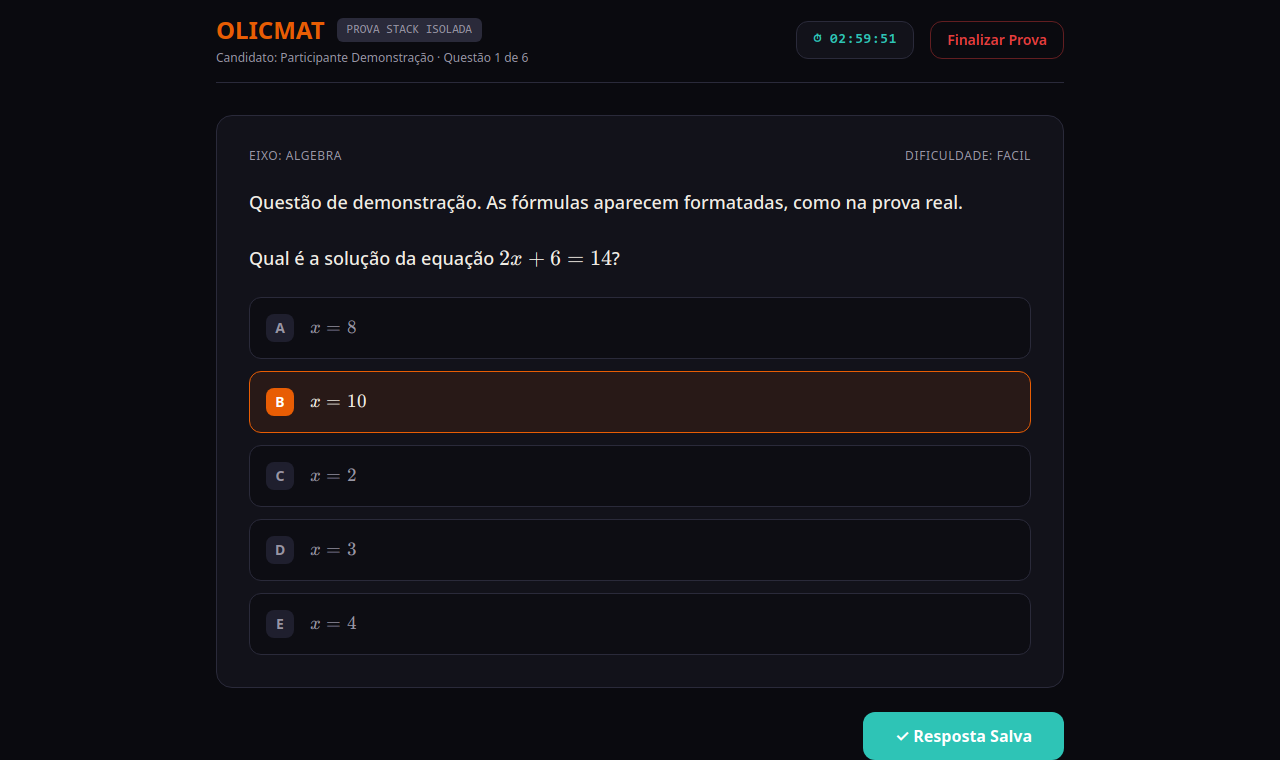
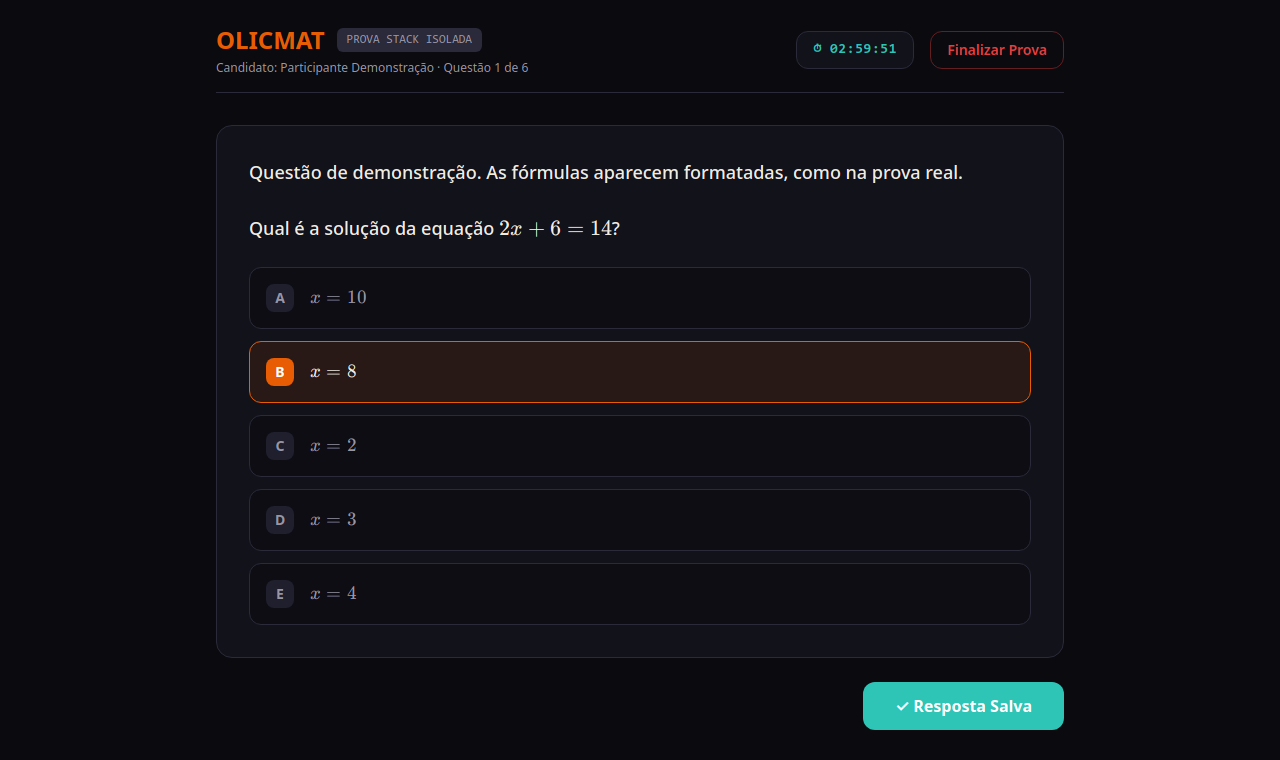
feat(prova): prova sem gabarito até a correção oficial
- Questão pode ser cadastrada sem gabarito, eixo e dificuldade
- Sem gabarito oficial, a finalização grava as respostas e deixa a nota vazia
- Eixo e dificuldade saem da tela e da resposta da API ao participante
- Fórmulas largas encolhem até caber na tela do celular
- Tutorial refeito sem eixo e dificuldade

diff --git a/apps/admin/web/src/components/prova/ProvaEditor.tsx b/apps/admin/web/src/components/prova/ProvaEditor.tsx
@@ -23,9 +23,9 @@ interface QuestaoNested {
   alternativaC: string;
   alternativaD: string;
   alternativaE: string;
-  correta: string;
-  eixo: string;
-  dificuldade: string;
+  correta: string | null;
+  eixo: string | null;
+  dificuldade: string | null;
 }
 
 interface ProvaQuestaoItem {
@@ -212,9 +212,9 @@ export function ProvaEditor({
       alternativaC: pq.questao.alternativaC,
       alternativaD: pq.questao.alternativaD,
       alternativaE: pq.questao.alternativaE,
-      correta: pq.questao.correta,
-      eixo: pq.questao.eixo,
-      dificuldade: pq.questao.dificuldade,
+      correta: pq.questao.correta ?? "",
+      eixo: pq.questao.eixo ?? "",
+      dificuldade: pq.questao.dificuldade ?? "",
     });
     setErroQuestao("");
     setModalQuestao(true);
@@ -230,7 +230,9 @@ export function ProvaEditor({
     setSalvandoQuestao(true);
     try {
       if (editandoQuestaoId) {
-        await api.patch(`/admin/questoes/${editandoQuestaoId}`, formQuestao);
+        // Campo vazio fica como está: editar o texto não pode inventar um gabarito.
+        const preenchidos = Object.fromEntries(Object.entries(formQuestao).filter(([, v]) => v !== ""));
+        await api.patch(`/admin/questoes/${editandoQuestaoId}`, preenchidos);
       } else {
         await api.post(`/admin/provas/${id}/questoes`, formQuestao);
       }
@@ -450,7 +452,7 @@ export function ProvaEditor({
                         <MathText text={pq.questao.enunciado} />
                       </span>
                       <span className="text-xs text-[#9895a4]">
-                        {pq.questao.eixo} · {pq.questao.dificuldade} · Gabarito: {pq.questao.correta}
+                        {pq.questao.eixo ?? "Sem eixo"} · {pq.questao.dificuldade ?? "Sem dificuldade"} · Gabarito: {pq.questao.correta ?? "pendente"}
                       </span>
                     </div>
                   </div>
@@ -520,6 +522,7 @@ export function ProvaEditor({
                 onChange={(e) => setFormQuestao({ ...formQuestao, correta: e.target.value })}
                 className="mt-1.5 w-full h-10 px-3 rounded-lg bg-[#0a0a0f] border border-[#2a2a3a] text-[#f0ece4] text-sm cursor-pointer"
               >
+                {formQuestao.correta === "" && <option value="">Pendente</option>}
                 {CORRETAS.map((c) => (
                   <option key={c} value={c}>{c}</option>
                 ))}
@@ -532,6 +535,7 @@ export function ProvaEditor({
                 onChange={(e) => setFormQuestao({ ...formQuestao, eixo: e.target.value })}
                 className="mt-1.5 w-full h-10 px-3 rounded-lg bg-[#0a0a0f] border border-[#2a2a3a] text-[#f0ece4] text-sm cursor-pointer"
               >
+                {formQuestao.eixo === "" && <option value="">Sem eixo</option>}
                 {EIXOS.map((e) => (
                   <option key={e} value={e}>{e}</option>
                 ))}
@@ -544,6 +548,7 @@ export function ProvaEditor({
                 onChange={(e) => setFormQuestao({ ...formQuestao, dificuldade: e.target.value })}
                 className="mt-1.5 w-full h-10 px-3 rounded-lg bg-[#0a0a0f] border border-[#2a2a3a] text-[#f0ece4] text-sm cursor-pointer"
               >
+                {formQuestao.dificuldade === "" && <option value="">Sem dificuldade</option>}
                 {DIFICULDADES.map((d) => (
                   <option key={d} value={d}>{d}</option>
                 ))}

diff --git a/apps/exam/api/src/prova/prova.service.spec.ts b/apps/exam/api/src/prova/prova.service.spec.ts
@@ -33,7 +33,7 @@ describe("ProvaService (exam-api)", () => {
     const q = (id: string) => ({
       questao: {
         id, enunciado: id, alternativaA: "a", alternativaB: "b", alternativaC: "c",
-        alternativaD: "d", alternativaE: "e", eixo: "ALGEBRA", dificuldade: "MEDIO",
+        alternativaD: "d", alternativaE: "e",
       },
     });
     const mock = {
@@ -63,12 +63,27 @@ describe("ProvaService (exam-api)", () => {
   beforeEach(() => {
     prisma = {
       inscricao: { findFirst: jest.fn(), findUnique: jest.fn(), update: jest.fn() },
-      questao: { findUnique: jest.fn() },
+      questao: { findUnique: jest.fn(), count: jest.fn(async () => 0) },
       prova: { findFirst: jest.fn() },
       provaQuestao: { findMany: jest.fn(), count: jest.fn() },
       resposta: { findMany: jest.fn(), groupBy: jest.fn(), upsert: jest.fn() },
     };
     service = new ProvaService(prisma as any);
+  });
+
+  it("sem gabarito oficial, finaliza sem nota em vez de dar zero", async () => {
+    prisma.inscricao.findFirst.mockResolvedValue({ id: "i1", edicaoId: "ed1", fase1Fim: null });
+    prisma.prova.findFirst.mockResolvedValue({ id: "p1" });
+    prisma.resposta.groupBy.mockResolvedValue([]);
+    prisma.provaQuestao.count.mockResolvedValue(20);
+    prisma.questao.count.mockResolvedValue(20);
+    prisma.inscricao.update.mockResolvedValue({ id: "i1" });
+
+    await service.finalizarProva("u1");
+
+    const { data } = prisma.inscricao.update.mock.calls[0][0];
+    expect(data.fase1Nota).toBeNull();
+    expect(data.fase1Fim).toEqual(expect.any(Date));
   });
 
   describe("estadoProva", () => {

diff --git a/apps/exam/api/src/prova/prova.service.ts b/apps/exam/api/src/prova/prova.service.ts
@@ -179,8 +179,6 @@ export class ProvaService {
             alternativaC: true,
             alternativaD: true,
             alternativaE: true,
-            eixo: true,
-            dificuldade: true,
           },
         },
       },
@@ -226,8 +224,6 @@ export class ProvaService {
           alternativaC: c,
           alternativaD: d,
           alternativaE: e,
-          eixo: q.eixo,
-          dificuldade: q.dificuldade,
           respondida: respostasMap.get(q.id) || null,
         };
       }),
@@ -354,12 +350,20 @@ export class ProvaService {
       });
     }
 
+    // Sem o gabarito oficial não há nota: ela fica vazia até a correção, e não
+    // zero. As respostas guardadas bastam para corrigir depois.
+    const semGabarito = prova
+      ? await this.prisma.questao.count({
+          where: { correta: null, provas: { some: { provaId: prova.id } } },
+        })
+      : 0;
+
     const nota = totalQuestoes > 0 ? (corretas / totalQuestoes) * 100 : 0;
 
     const atualizada = await this.prisma.inscricao.update({
       where: { id: inscricao.id },
       data: {
-        fase1Nota: Math.round(nota * 100) / 100,
+        fase1Nota: semGabarito > 0 ? null : Math.round(nota * 100) / 100,
         fase1Fim: new Date(),
         fase1FimMotivo: motivo,
       },

diff --git a/apps/admin/api/src/admin/monitoramento/monitoramento.service.ts b/apps/admin/api/src/admin/monitoramento/monitoramento.service.ts
@@ -449,7 +449,7 @@ export class MonitoramentoService {
       throw new NotFoundException("Prova não encontrada");
     }
 
-    const [abertas, totalQuestoes, corretas] = await Promise.all([
+    const [abertas, totalQuestoes, corretas, semGabarito] = await Promise.all([
       this.prisma.inscricao.findMany({
         where: {
           edicaoId: prova.edicaoId,
@@ -464,6 +464,9 @@ export class MonitoramentoService {
         by: ["inscricaoId"],
         where: { provaId, correta: true },
         _count: { _all: true },
+      }),
+      this.prisma.questao.count({
+        where: { correta: null, provas: { some: { provaId } } },
       }),
     ]);
 
@@ -485,7 +488,8 @@ export class MonitoramentoService {
       await this.prisma.inscricao.updateMany({
         where: { id: insc.id, fase1Fim: null },
         data: {
-          fase1Nota: Math.round(nota * 100) / 100,
+          // Sem o gabarito oficial, a nota fica vazia até a correção.
+          fase1Nota: semGabarito > 0 ? null : Math.round(nota * 100) / 100,
           fase1Fim: agora,
           fase1FimMotivo: "ENCERRAMENTO_ADMIN",
         },

diff --git a/apps/admin/web/src/components/ui/math-text.tsx b/apps/admin/web/src/components/ui/math-text.tsx
@@ -12,7 +12,7 @@ interface MathTextProps {
 /**
  * Encolhe a fórmula para caber na tela. A rolagem lateral sozinha esconde parte
  * dela no celular: uma coluna inteira de tabela sumia sem nenhum sinal.
- * Abaixo do mínimo legível, a rolagem continua como último recurso.
+ * Abaixo do mínimo legível (50%), a rolagem continua como último recurso.
  */
 function FormulaLarga({ html }: { html: string }) {
   const ref = useRef<HTMLSpanElement>(null);
@@ -22,8 +22,10 @@ function FormulaLarga({ html }: { html: string }) {
     if (!el) return;
     const ajustar = () => {
       el.style.fontSize = "";
-      if (el.scrollWidth > el.clientWidth) {
-        const escala = Math.max(0.55, (el.clientWidth / el.scrollWidth) * 0.98);
+      let escala = 1;
+      // Repete porque a largura não cai na mesma proporção: sobravam alguns pixels.
+      for (let i = 0; i < 6 && escala > 0.5 && el.scrollWidth > el.clientWidth; i++) {
+        escala = Math.max(0.5, escala * (el.clientWidth / el.scrollWidth) * 0.98);
         el.style.fontSize = `${escala * 100}%`;
       }
     };

diff --git a/apps/exam/web/src/components/ui/math-text.tsx b/apps/exam/web/src/components/ui/math-text.tsx
@@ -12,7 +12,7 @@ interface MathTextProps {
 /**
  * Encolhe a fórmula para caber na tela. A rolagem lateral sozinha esconde parte
  * dela no celular: uma coluna inteira de tabela sumia sem nenhum sinal.
- * Abaixo do mínimo legível, a rolagem continua como último recurso.
+ * Abaixo do mínimo legível (50%), a rolagem continua como último recurso.
  */
 function FormulaLarga({ html }: { html: string }) {
   const ref = useRef<HTMLSpanElement>(null);
@@ -22,8 +22,10 @@ function FormulaLarga({ html }: { html: string }) {
     if (!el) return;
     const ajustar = () => {
       el.style.fontSize = "";
-      if (el.scrollWidth > el.clientWidth) {
-        const escala = Math.max(0.55, (el.clientWidth / el.scrollWidth) * 0.98);
+      let escala = 1;
+      // Repete porque a largura não cai na mesma proporção: sobravam alguns pixels.
+      for (let i = 0; i < 6 && escala > 0.5 && el.scrollWidth > el.clientWidth; i++) {
+        escala = Math.max(0.5, escala * (el.clientWidth / el.scrollWidth) * 0.98);
         el.style.fontSize = `${escala * 100}%`;
       }
     };

diff --git a/apps/admin/web/src/components/monitoramento/monitoramento-panel.tsx b/apps/admin/web/src/components/monitoramento/monitoramento-panel.tsx
@@ -443,7 +443,7 @@ export function MonitoramentoPanel() {
           confirmarLabel={acaoLoading ? "Encerrando..." : "Encerrar"}
         >
           <p className="text-sm text-[#9895a4]">
-            Calcula a nota de quem ficou com o tempo esgotado e não finalizou (fechou o navegador, caiu a
+            Encerra quem ficou com o tempo esgotado e não finalizou (fechou o navegador, caiu a
             internet). Quem ainda tem tempo não é afetado. Use depois do fechamento da prova.
           </p>
         </Modal>
@@ -711,7 +711,7 @@ function TabelaAlunos({
 
       {pendentes > 0 && (
         <div className="flex items-center justify-between gap-3 text-sm text-[#FAA307] bg-[#FAA307]/10 border border-[#FAA307]/20 rounded-xl p-3">
-          <span>{pendentes} participante(s) com tempo esgotado e sem nota.</span>
+          <span>{pendentes} participante(s) com tempo esgotado e sem finalizar.</span>
           <button
             type="button"
             onClick={onEncerrarPendentes}

diff --git a/apps/web/public/tutorial-prova.html b/apps/web/public/tutorial-prova.html
@@ -314,7 +314,7 @@
     <section class="passo" id="responder">
       <span class="ord"><span class="fase">π</span>Passo 3</span>
       <h2>Responder uma questão</h2>
-      <p>Cada questão mostra o <strong>eixo</strong> e a <strong>dificuldade</strong> no alto, o enunciado e cinco alternativas (A a E). As fórmulas aparecem formatadas.</p>
+      <p>Cada questão mostra o enunciado e cinco alternativas (A a E). As fórmulas aparecem formatadas.</p>
 
       <figure class="tela"><img src="/tutorial-prova/04-questao-1.png" alt="Questão da prova com cinco alternativas e o botão Salvar Resposta desabilitado" loading="lazy" width="1280" height="760"><figcaption>Questão aberta: ainda sem alternativa marcada, o botão “Salvar Resposta” está apagado.</figcaption></figure>
 

diff --git a/apps/exam/web/src/components/prova/QuestaoCard.tsx b/apps/exam/web/src/components/prova/QuestaoCard.tsx
@@ -20,11 +20,6 @@ export function QuestaoCard({ questao, selecionada, onSelecionar }: QuestaoCardP
 
   return (
     <div className="border border-[#2a2a3a] rounded-2xl p-4 sm:p-8 bg-[#12121a] space-y-5 sm:space-y-6">
-      <div className="flex flex-wrap items-center justify-between gap-x-4 gap-y-1 text-xs text-[#9895a4] uppercase tracking-wider">
-        <span>Eixo: {questao.eixo}</span>
-        <span>Dificuldade: {questao.dificuldade}</span>
-      </div>
-
       <div className="text-base sm:text-lg font-medium leading-relaxed text-[#f0ece4] whitespace-pre-wrap break-words overflow-x-auto">
         <MathText text={questao.enunciado} />
       </div>

diff --git a/apps/exam/web/src/stores/provaStore.ts b/apps/exam/web/src/stores/provaStore.ts
@@ -9,8 +9,6 @@ export interface Questao {
   alternativaC: string;
   alternativaD: string;
   alternativaE: string;
-  eixo: string;
-  dificuldade: string;
   respondida?: string | null;
 }
 

diff --git a/docs/SUPORTE_PROVA_FASE1.md b/docs/SUPORTE_PROVA_FASE1.md
@@ -34,7 +34,7 @@ Confirme a identidade (CPF e matrícula, mostrados abaixo do nome) antes de qual
 | **Resetar** | Reinicia o cronômetro e zera tudo, menos as respostas | Sim. Excepcional: quem é resetado às 10:00 ainda termina às 11:30 |
 | **Senha** | Gera senha provisória, invalida a anterior e libera a sessão | Novo login |
 | **Liberar sessão** | Permite entrar em outro aparelho na hora. Aparece com a sessão ativa | Novo login. O aparelho anterior cai quando o novo entrar |
-| **Encerrar pendentes** | Calcula a nota de quem esgotou o tempo sem finalizar | Usar após o fim, quando não houver ninguém com tempo extra |
+| **Encerrar pendentes** | Encerra quem esgotou o tempo sem finalizar. A nota só existe depois da correção pelo gabarito oficial | Usar após o fim, quando não houver ninguém com tempo extra |
 
 Toda ação fica em **Auditoria**. O suporte pode atuar até 13:30 (2 h após o fechamento).
 Quem não iniciou até 09:00 não entra mais, e nenhuma ação do painel muda isso.
